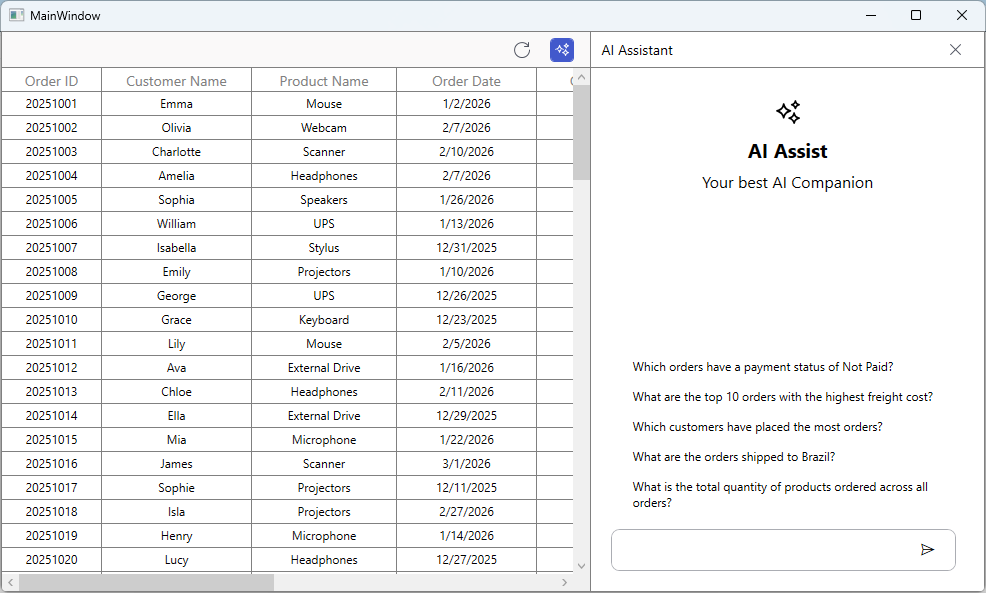
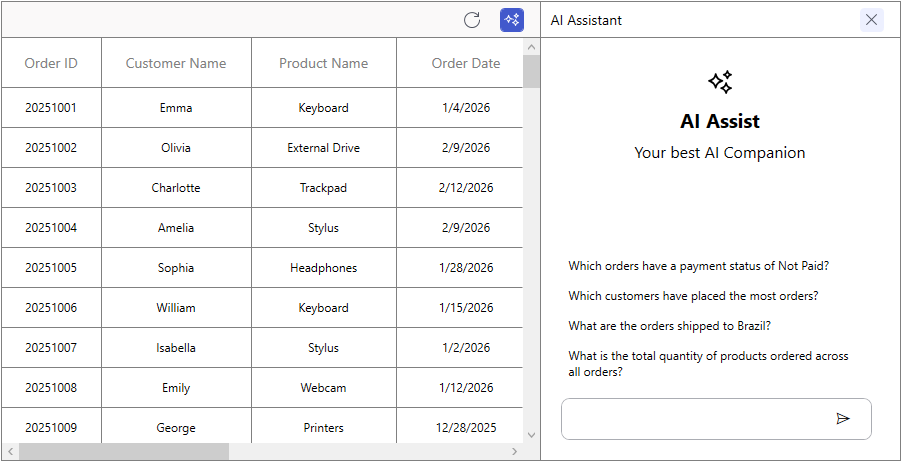
SmartdataGrid controls images and content updated

diff --git a/wpf/SmartDataGrid/customization.md b/wpf/SmartDataGrid/customization.md
@@ -2,9 +2,9 @@
 layout: post
 title: Customization in WPF SmartDataGrid control | Syncfusion®
 description: Learn here all about how to customize behavior and features of Syncfusion® WPF SmartDataGrid (SfSmartDataGrid) control and more.
-platform: WPF
+platform: wpf
 control: SfSmartDataGrid
-documentation: UG
+documentation: ug
 keywords : WPF datagrid, customization, assistview, prompts, smart actions
 ---
 
@@ -22,12 +22,11 @@ The `Suggestions` property in `SfSmartDataGrid` is used to provide a predefined 
 {% endhighlight %}
 
 {% highlight c# %}
-public class OrderInfoRepository
+public class ViewModel
 {
 	public ObservableCollection<string> AiSuggestions { get; } = new ObservableCollection<string>
 	{
 		"Which orders have a payment status of Not Paid?",
-		"What are the top 10 orders with the highest freight cost?",
 		"Which customers have placed the most orders?",
 		"What are the orders shipped to Brazil?",
 		"What is the total quantity of products ordered across all orders?",
@@ -36,7 +35,7 @@ public class OrderInfoRepository
 {% endhighlight %}
 {% endtabs %}
 
-<img alt="WPF-smart-datagrid-suggested-prompts" src="Images\Customization\WPF-smart-datagrid-suggested-prompts.png" width="600"/>
+<img alt="WPF-smart-datagrid-suggested-prompts" src="getting-started_images\wpf-smart-datagrid-overview.png" width="600"/>
 
 ## Prompt
 
@@ -54,7 +53,9 @@ SmartGrid.Prompt = "Sort the Quantity column";;
 
 ## EnableSmartActions
 
-The `EnableSmartActions` property in `SfSmartDataGrid` determines whether actions are applied to the DataGrid. By default, this property is set to true, allowing operations such as sorting, grouping, filtering, and highlighting to be executed automatically. Setting it to false restricts these actions from being applied to the grid.
+The `EnableSmartActions` property in `SfSmartDataGrid` determines whether AI actions can be applied to the DataGrid. By default, this property is set to false, meaning actions such as sorting, grouping, filtering, and highlighting are not applied automatically.
+When the property is set to true, these actions are enabled and can be applied to the grid.
+
 
 {% tabs %}
 {% highlight xaml %}

diff --git a/wpf/SmartDataGrid/ai-powered-features.md b/wpf/SmartDataGrid/ai-powered-features.md
@@ -2,9 +2,9 @@
 layout: post
 title: AI-Powered Features in WPF SmartDataGrid control | Syncfusion®
 description: Learn here all about how to use AI-powered natural language commands in Syncfusion® WPF SmartDataGrid (SfSmartDataGrid) control and more.
-platform: WPF
+platform: wpf
 control: SfSmartDataGrid
-documentation: UG
+documentation: ug
 keywords : WPF datagrid, ai assist, natural language commands, sorting, grouping, filtering, highlighting
 ---
 
@@ -29,7 +29,7 @@ sort by city column in descending and Revenue ascending
 clear sorting
 ```
 
-<img alt="WPF-smart-datagrid-sort" src="ai-powered-features_gifs\WPF-smart-datagrid-sort.gif" width="600"/>
+<img alt="WPF-smart-datagrid-sort" src="ai-powered-features_images\WPF-smart-datagrid-sort.png" width="600"/>
 
 ## Grouping
 
@@ -48,7 +48,7 @@ group by Country and ShipCity
 clear grouping
 ```
 
-<img alt="WPF-smart-datagrid-group" src="ai-powered-features_gifs\WPF-smart-datagrid-group.gif" width="600"/>
+<img alt="WPF-smart-datagrid-group" src="ai-powered-features_images\WPF-smart-datagrid-group.png" width="600"/>
 
 ## Filtering
 
@@ -67,7 +67,7 @@ filter Country equals Germany AND Revenue greaterThan 1000
 clear filters
 ```
 
-<img alt="WPF-smart-datagrid-filter" src="ai-powered-features_gifs\WPF-smart-datagrid-filter.gif" width="600"/>
+<img alt="WPF-smart-datagrid-filter" src="ai-powered-features_images\WPF-smart-datagrid-filter.png" width="600"/>
 
 ## Highlight
 
@@ -92,4 +92,4 @@ clear row highlight
 clear cell highlight
 ```
 
-<img alt="WPF-smart-datagrid-highlight" src="ai-powered-features_gifs\WPF-smart-datagrid-highlight.gif" width="600" />
+<img alt="WPF-smart-datagrid-highlight" src="ai-powered-features_images\WPF-smart-datagrid-highlight.png" width="600" />

diff --git a/wpf/SmartDataGrid/getting-started.md b/wpf/SmartDataGrid/getting-started.md
@@ -104,7 +104,7 @@ In order to add control manually in XAML, do the below steps,
 	* Syncfusion.Shared.WPF
     * Syncfusion.SfChat.WPF
     * Syncfusion.SfSmartComponents.WPF
-2. Import Syncfusion<sup>®</sup> WPF schema **http://schemas.syncfusion.com/wpf** or SfSmartDataGrid control namespace **SSyncfusion.UI.Xaml.SmartComponents** in XAML page.
+2. Import Syncfusion<sup>®</sup> WPF schema **http://schemas.syncfusion.com/wpf** or SfSmartDataGrid control namespace **Syncfusion.UI.Xaml.SmartComponents** in XAML page.
 3. Declare SfSmartDataGrid control in XAML page.
 
 {% capture codesnippet1 %}
@@ -350,15 +350,13 @@ public class ViewModel : INotifyPropertyChanged
         "Rating"
     };
 
-
-
     public event PropertyChangedEventHandler PropertyChanged;
     public void RaisePropertyChanged(string propName)
     {
         PropertyChanged?.Invoke(this, new PropertyChangedEventArgs(propName));
     }
 
-    public OrderInfoRepository()
+    public ViewModel()
     {
         this.CurrentUser = new Author { Name = "John" };
         OrderInfoCollection = new ObservableCollection<OrderInfo>();
@@ -391,7 +389,6 @@ public class ViewModel : INotifyPropertyChanged
     };
 
     private static readonly string[] PaymentStatuses = new[] { "Paid", "Not Paid" };
-
 
     private void GenerateOrders()
     {

diff --git a/wpf/SmartDataGrid/overview.md b/wpf/SmartDataGrid/overview.md
@@ -2,7 +2,7 @@
 layout: post
 title: About WPF Smart DataGrid control | Syncfusion®
 description: Learn about the Syncfusion® WPF Smart DataGrid (SfSmartDataGrid) control and its AI-assisted features.
-platform: WPF
+platform: wpf
 control: SfSmartDataGrid
 documentation: ug
 keywords: wpf smart datagrid, ai datagrid wpf, smart grid wpf, ai gridview wpf, wpf smart datagrid, wpf ai grid
